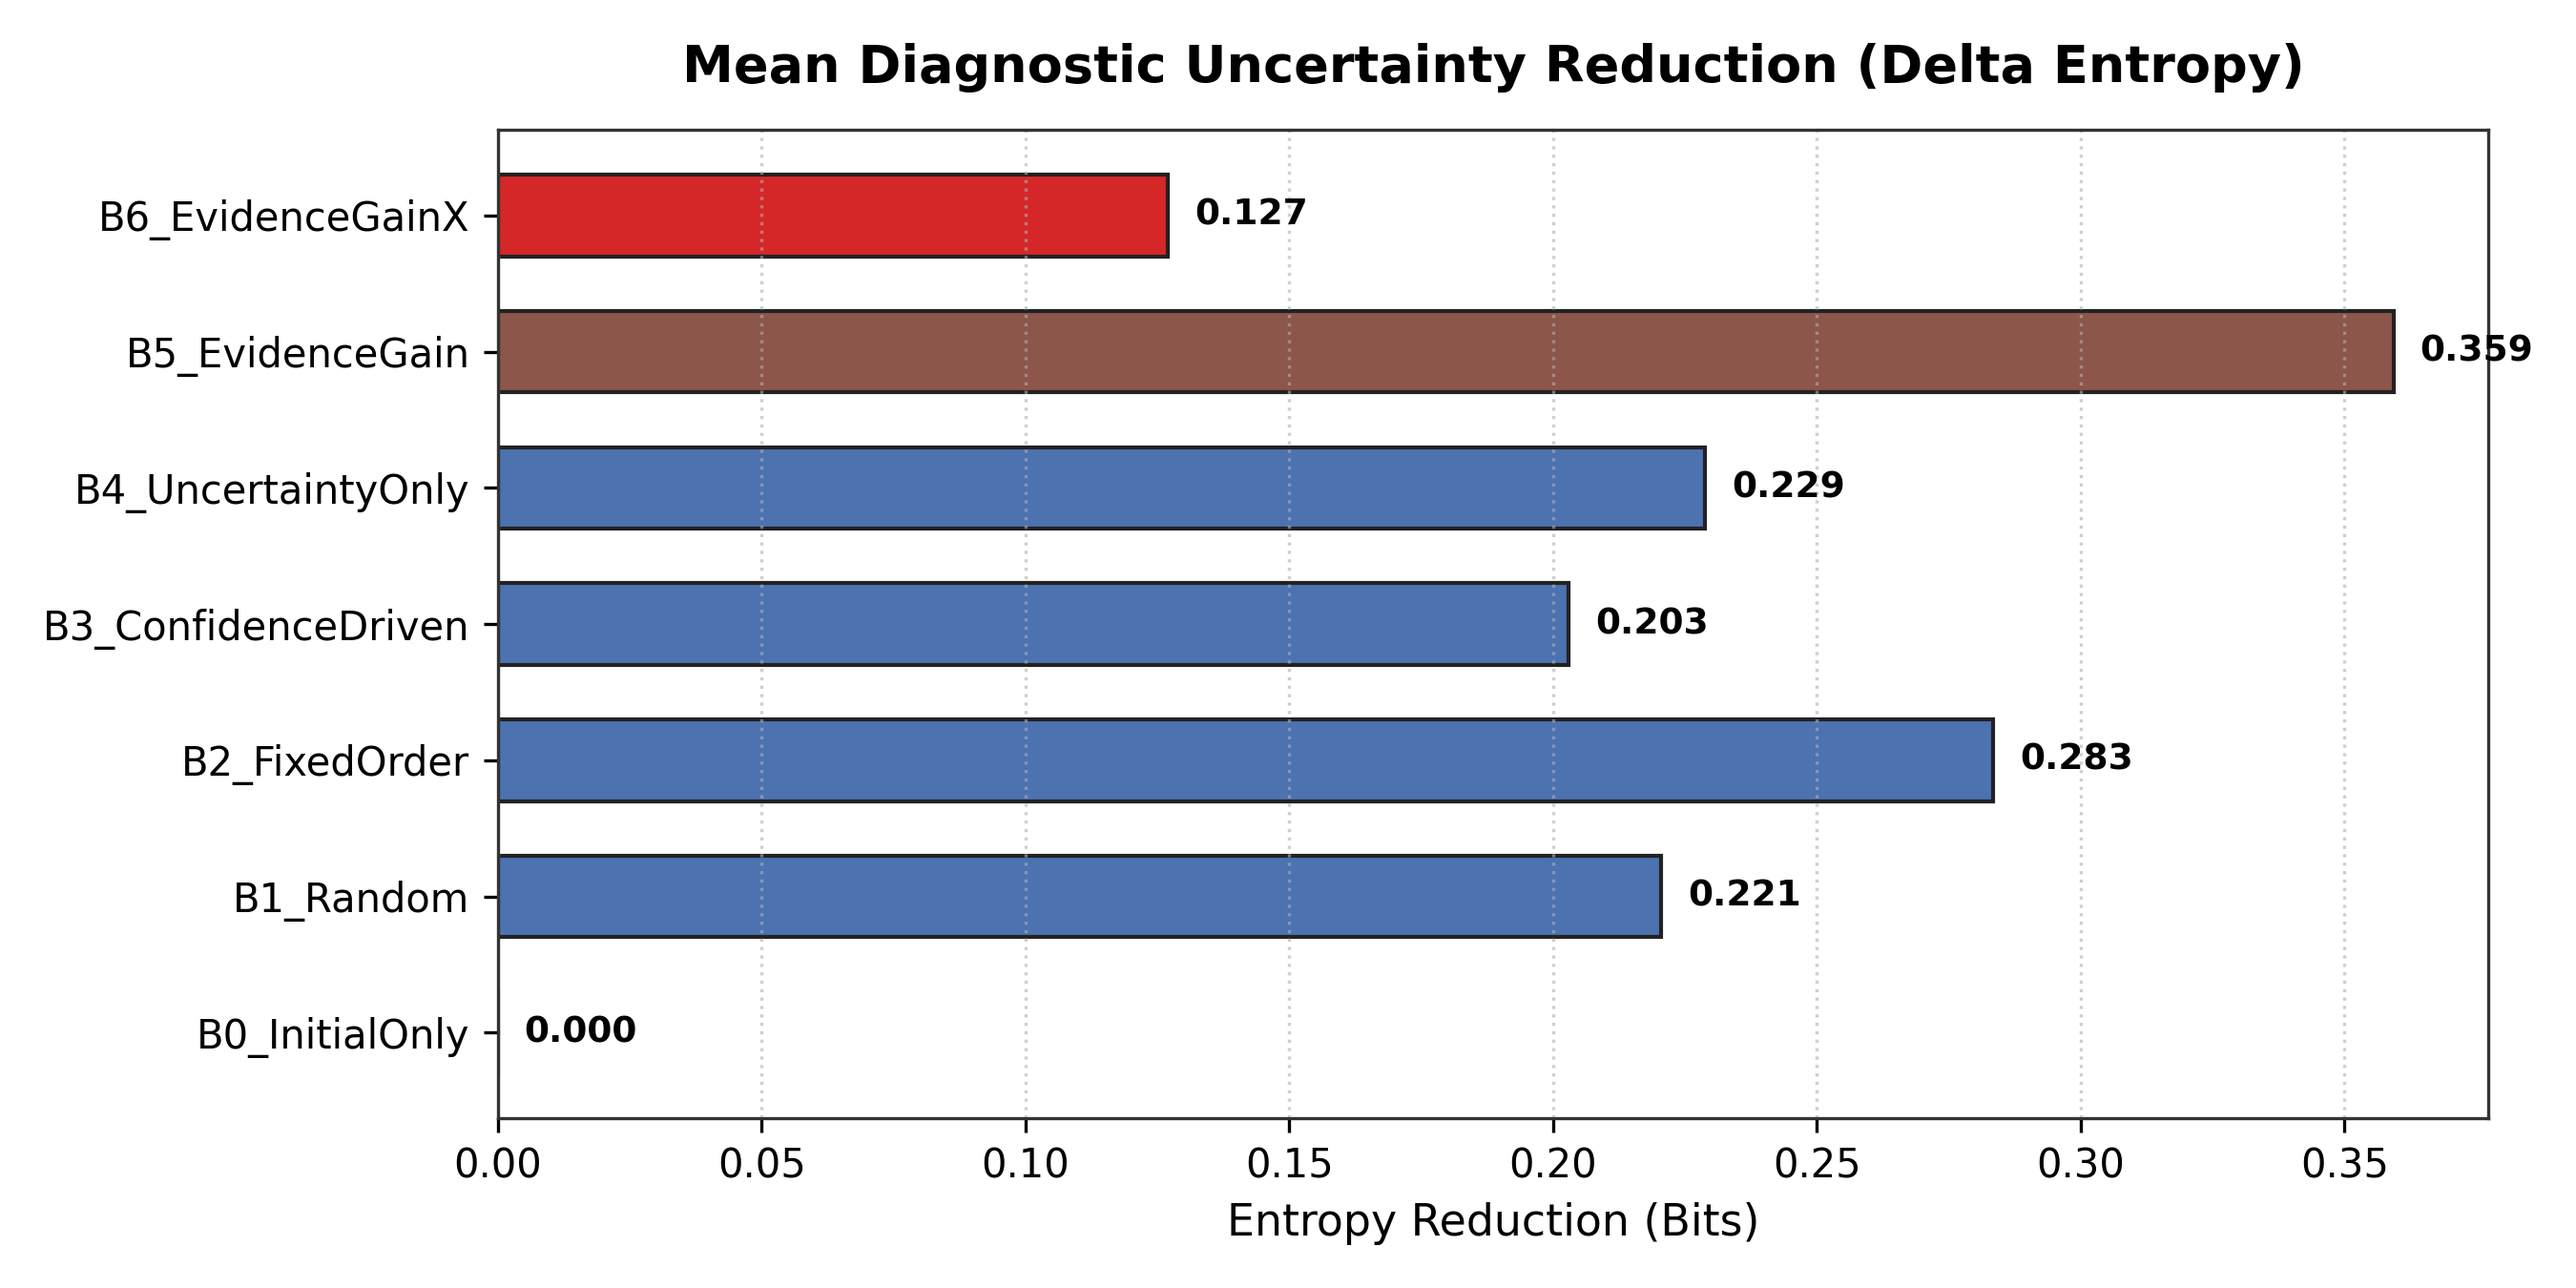
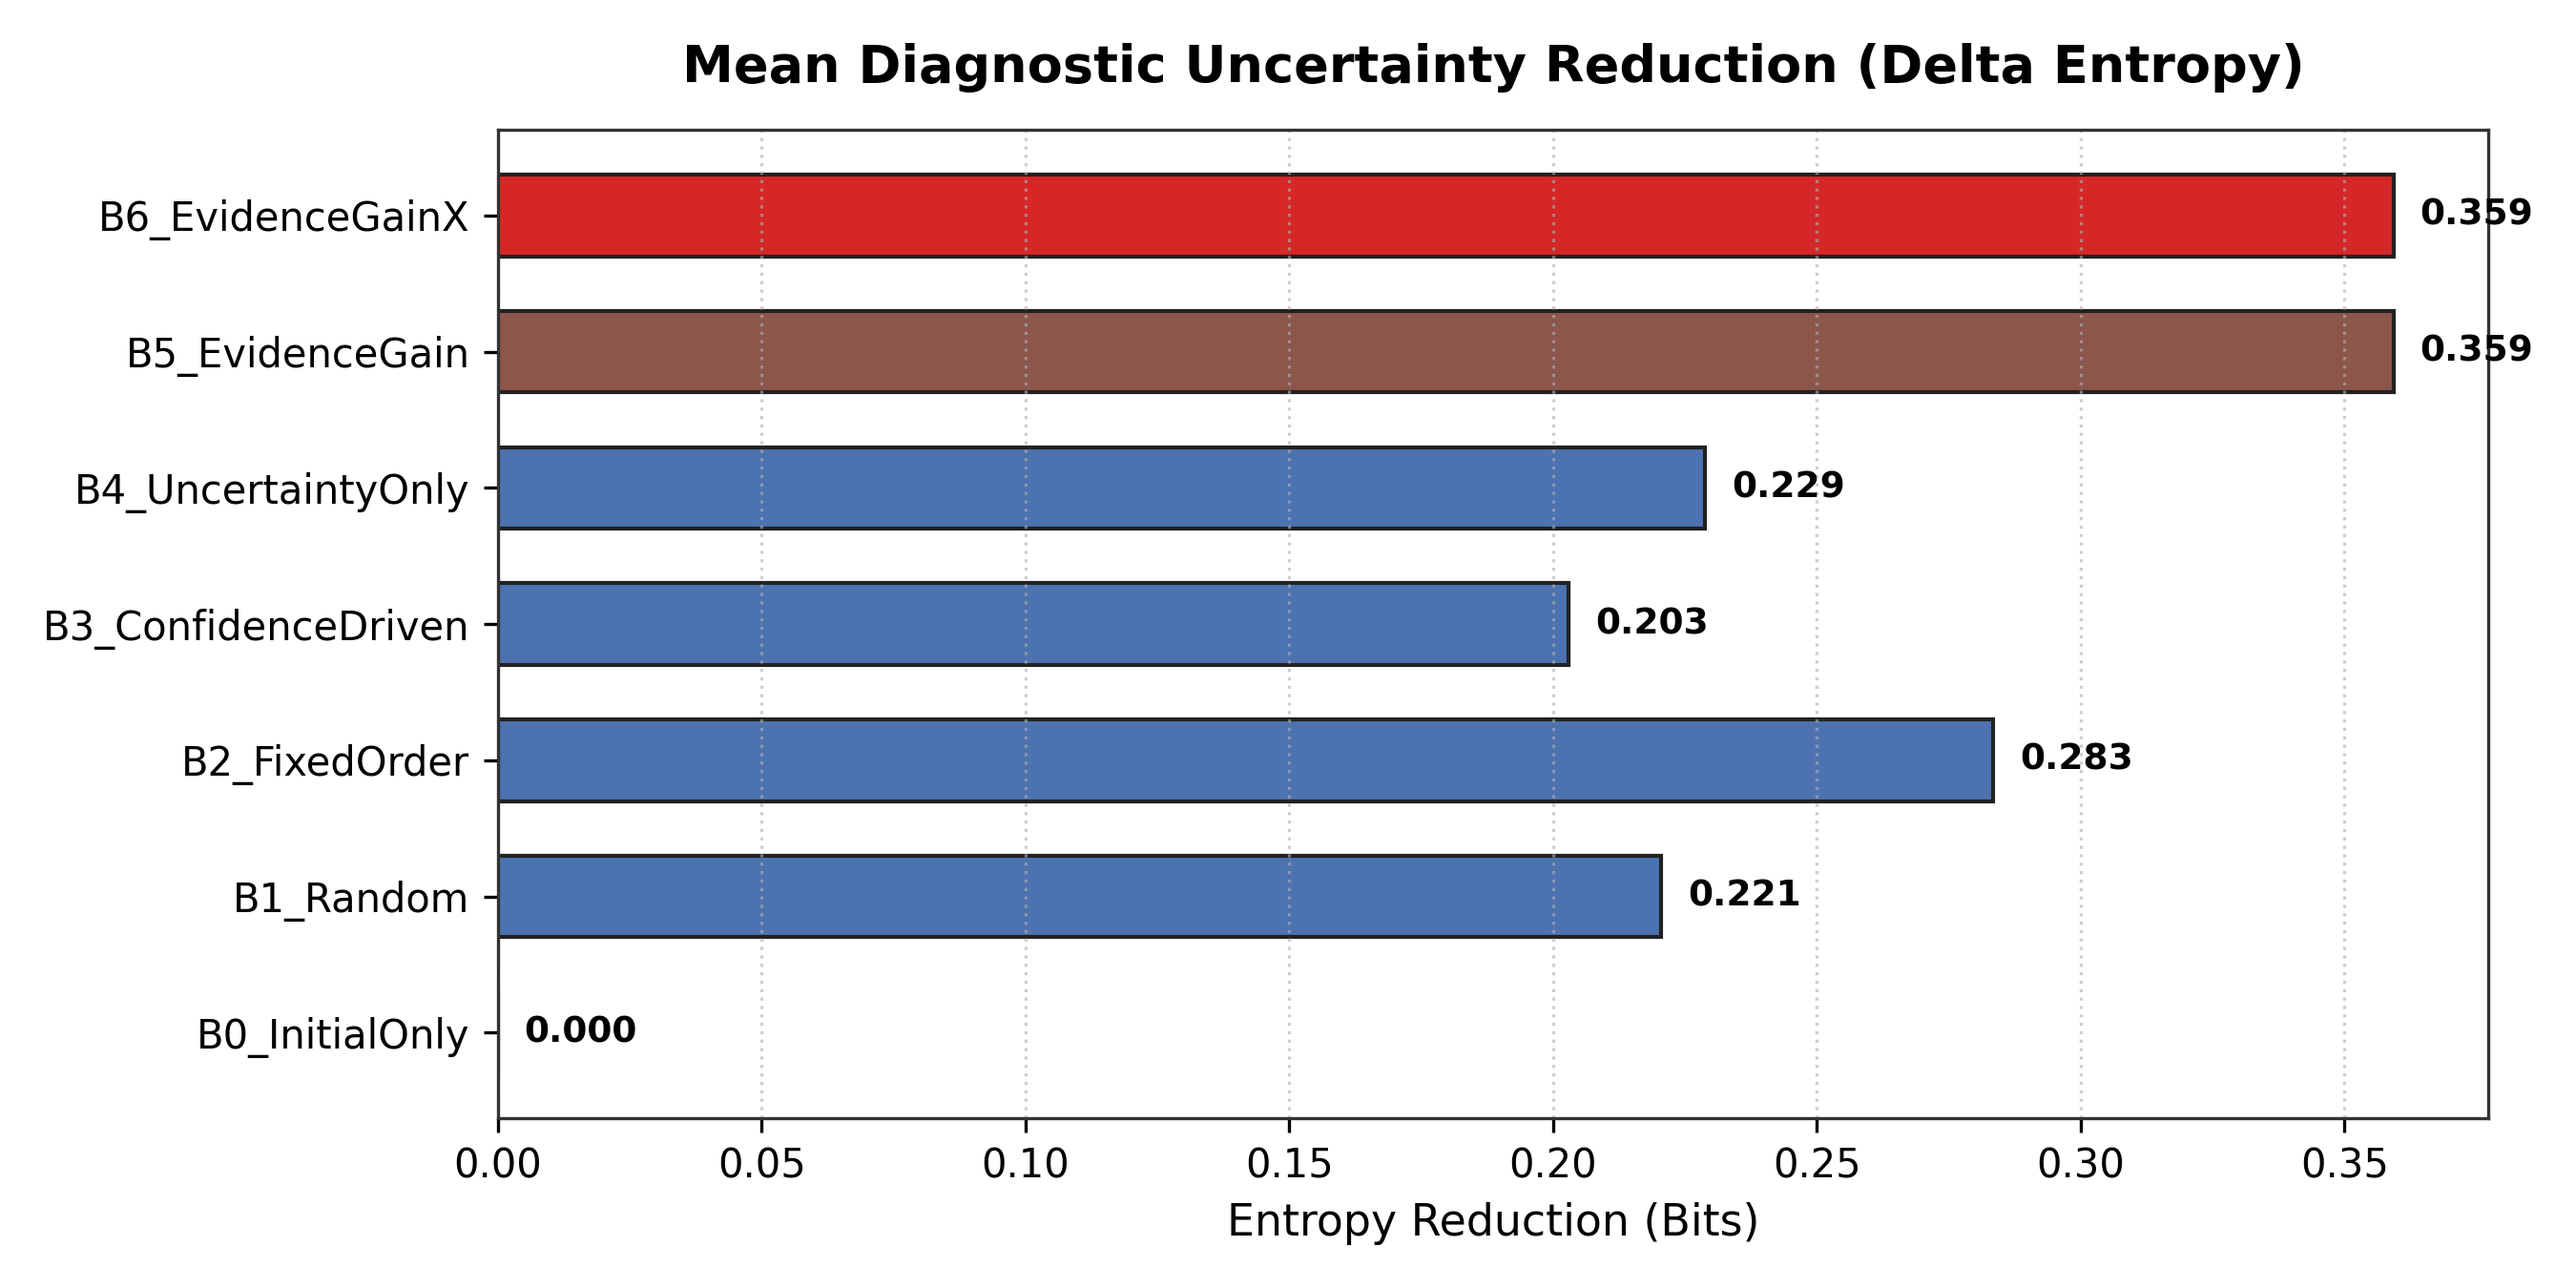
fix: calibrate contradiction verification with dual-hypothesis counterfactual alignment and sync benchmark results

Changed region(s): [[0.4356, 0.1244, 0.9956, 0.2178]]

diff --git a/src/verification/contradiction.py b/src/verification/contradiction.py
@@ -1,5 +1,5 @@
 from dataclasses import dataclass
-from typing import Dict, Any, List
+from typing import Dict, Any, List, Optional
 import numpy as np
 import torch
 
@@ -24,40 +24,49 @@ class ContradictionVerifier:
         observed_probs: np.ndarray,
         h1_idx: int,
         h2_idx: int,
-        classes: List[str]
+        classes: List[str],
+        expected_probs_h2: Optional[np.ndarray] = None
     ) -> ContradictionReport:
-        # Compute direction of expected shift on leading hypothesis vs rival
-        expected_diff = (expected_probs[h1_idx] - prior_probs[h1_idx]) - (expected_probs[h2_idx] - prior_probs[h2_idx])
-        observed_diff = (observed_probs[h1_idx] - prior_probs[h1_idx]) - (observed_probs[h2_idx] - prior_probs[h2_idx])
-
-        # Cosine / directional divergence between expected update and observed update
-        delta_exp = expected_probs - prior_probs
+        # Directional divergence between expected update and observed update
+        delta_exp_h1 = expected_probs - prior_probs
         delta_obs = observed_probs - prior_probs
 
-        norm_exp = np.linalg.norm(delta_exp)
-        norm_obs = np.linalg.norm(delta_obs)
+        norm_obs = float(np.linalg.norm(delta_obs))
+        norm_exp1 = float(np.linalg.norm(delta_exp_h1))
 
-        if norm_exp < 1e-6 or norm_obs < 1e-6:
-            cosine_sim = 1.0
+        if norm_obs < 1e-6 or norm_exp1 < 1e-6:
+            cos1 = 1.0
         else:
-            cosine_sim = float(np.dot(delta_exp, delta_obs) / (norm_exp * norm_obs))
+            cos1 = float(np.dot(delta_exp_h1, delta_obs) / (norm_exp1 * norm_obs))
 
-        # Contradiction score ranges from 0 (perfect alignment) to 1 (complete opposition)
-        contradiction_score = float(np.clip((1.0 - cosine_sim) / 2.0, 0.0, 1.0))
+        if expected_probs_h2 is not None:
+            delta_exp_h2 = expected_probs_h2 - prior_probs
+            norm_exp2 = float(np.linalg.norm(delta_exp_h2))
+            if norm_exp2 < 1e-6 or norm_obs < 1e-6:
+                cos2 = 1.0
+            else:
+                cos2 = float(np.dot(delta_exp_h2, delta_obs) / (norm_exp2 * norm_obs))
+            # Observation aligns if it supports EITHER of the competing hypotheses (h1 or h2)
+            best_cos = max(cos1, cos2)
+        else:
+            best_cos = cos1
+
+        # Contradiction score: 0 (aligned with h1 or h2) to 1 (opposes both look-alike hypotheses)
+        contradiction_score = float(np.clip((1.0 - best_cos) / 2.0, 0.0, 1.0))
         is_contradiction = contradiction_score >= self.contradiction_threshold
 
         h1_name = classes[h1_idx]
         h2_name = classes[h2_idx]
 
-        exp_dir = f"Support {h1_name}" if expected_diff > 0 else f"Support {h2_name}"
-        obs_dir = f"Support {h1_name}" if observed_diff > 0 else f"Support {h2_name}"
+        exp_dir = f"Support {h1_name} or {h2_name}"
+        obs_dir = f"Support {classes[int(np.argmax(observed_probs))]}"
 
         if is_contradiction:
             penalty_factor = float(1.0 - self.penalty_scale * contradiction_score)
             explanation = (
                 f"Contradiction detected: Acquired evidence shifts belief toward '{obs_dir}' "
-                f"while planning expected '{exp_dir}' (divergence: {contradiction_score:.2f}). "
-                f"Confidence is penalized to prevent artificial certainty."
+                f"which contradicts both planned look-alike hypotheses '{h1_name}' and '{h2_name}' "
+                f"(divergence: {contradiction_score:.2f}). Confidence is dampened to protect diagnosis."
             )
         else:
             penalty_factor = 1.0

diff --git a/src/diagnosis/pipeline.py b/src/diagnosis/pipeline.py
@@ -152,7 +152,8 @@ class EvidenceGainXPipeline:
             h2_idx=h2_idx,
             evidence_type=evidence_type
         )
-        expected_p = cf_plan["p_outcome_if_h1"]
+        expected_p_h1 = cf_plan["p_outcome_if_h1"]
+        expected_p_h2 = cf_plan["p_outcome_if_h2"]
 
         # 4. Tentative update to check for contradiction
         tentative_p = self.belief_updater.update_beliefs(
@@ -165,7 +166,8 @@ class EvidenceGainXPipeline:
         # 5. Contradiction Verification (Module 8)
         contra_report = self.contradiction_verifier.verify(
             prior_probs=prior_p,
-            expected_probs=expected_p,
+            expected_probs=expected_p_h1,
+            expected_probs_h2=expected_p_h2,
             observed_probs=tentative_p,
             h1_idx=h1_idx,
             h2_idx=h2_idx,
